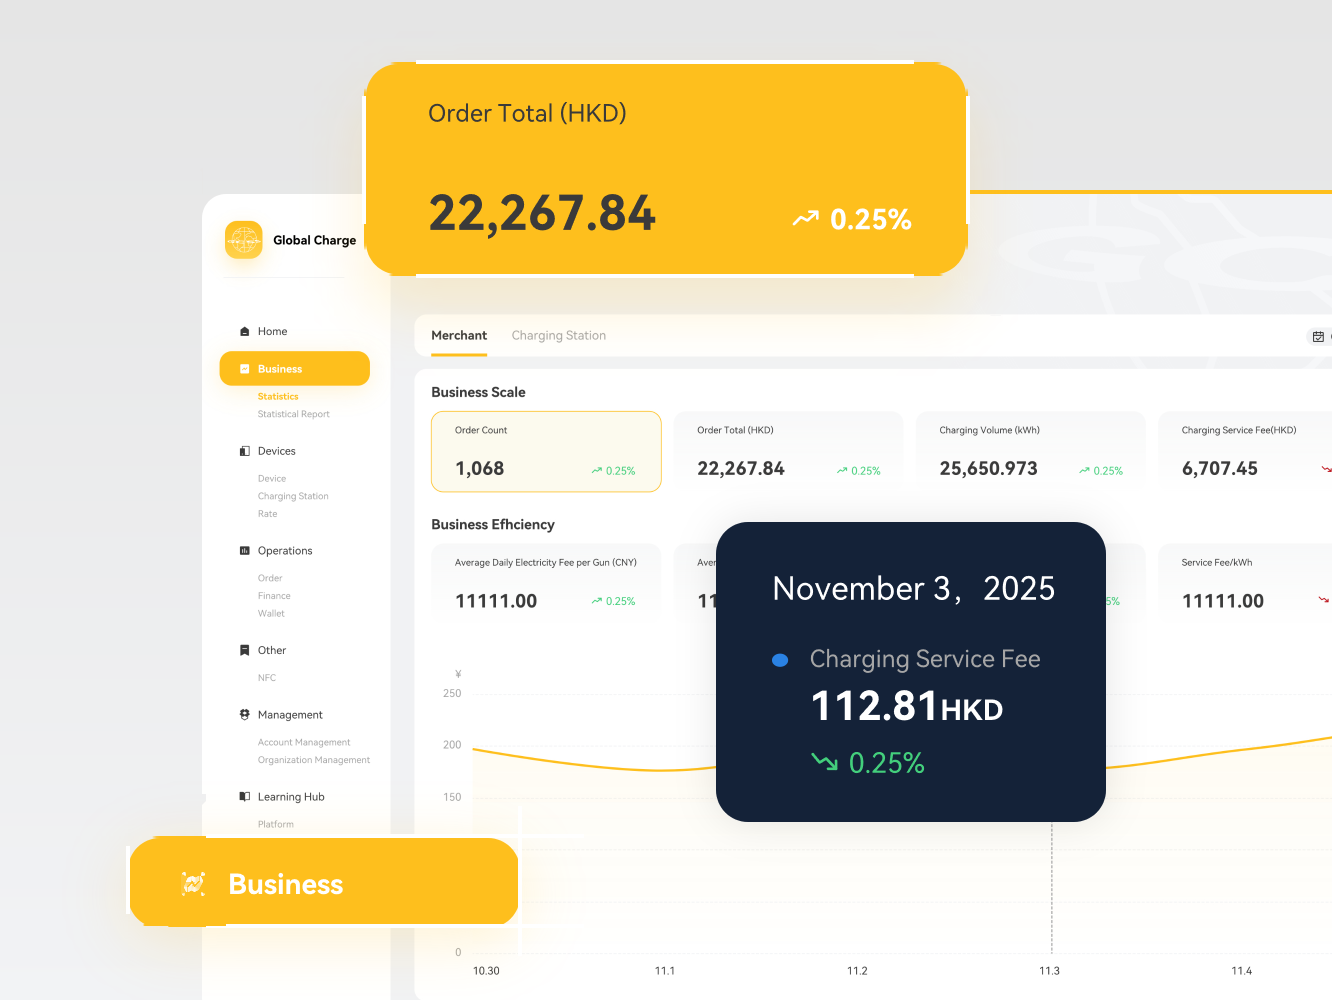
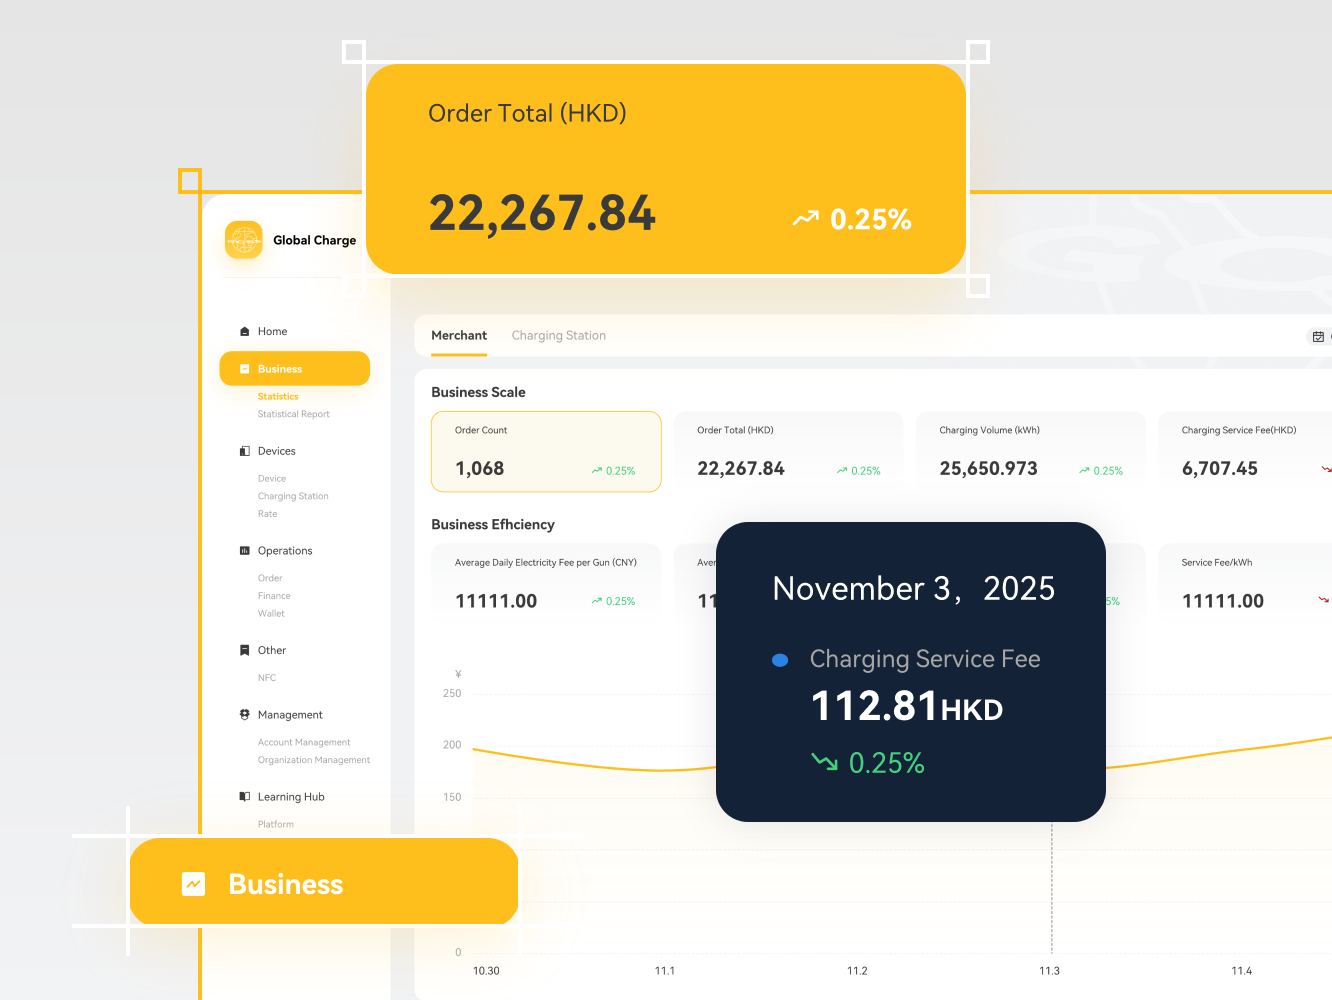
style(b2c #payment): region payment-method tags → border-only (drop pale-gold fill)

diff --git a/website/frontend/src/app/styles/sections.css b/website/frontend/src/app/styles/sections.css
@@ -2632,6 +2632,21 @@ html {
   background: transparent;
   box-shadow: none;
 }
+/* Payment-method chips: border-only (drop the pale-gold fill), AA gold text.
+   Scoped to this marquee so the global .tag chips elsewhere keep their fill. */
+.b2c-pay-card .tag {
+  background: transparent;
+  border: 1px solid rgba(214, 158, 0, 0.35);
+  color: var(--primary-text, #8C5F00);
+}
+.b2c-pay-card .tag:hover {
+  box-shadow: none;
+  transform: none;
+}
+[data-theme="dark"] .b2c-pay-card .tag {
+  border-color: rgba(254, 191, 29, 0.4);
+  color: var(--primary, #febf1d);
+}
 @keyframes b2cPaySlide {
   from { transform: translateX(-50%); }
   to   { transform: translateX(0); }
